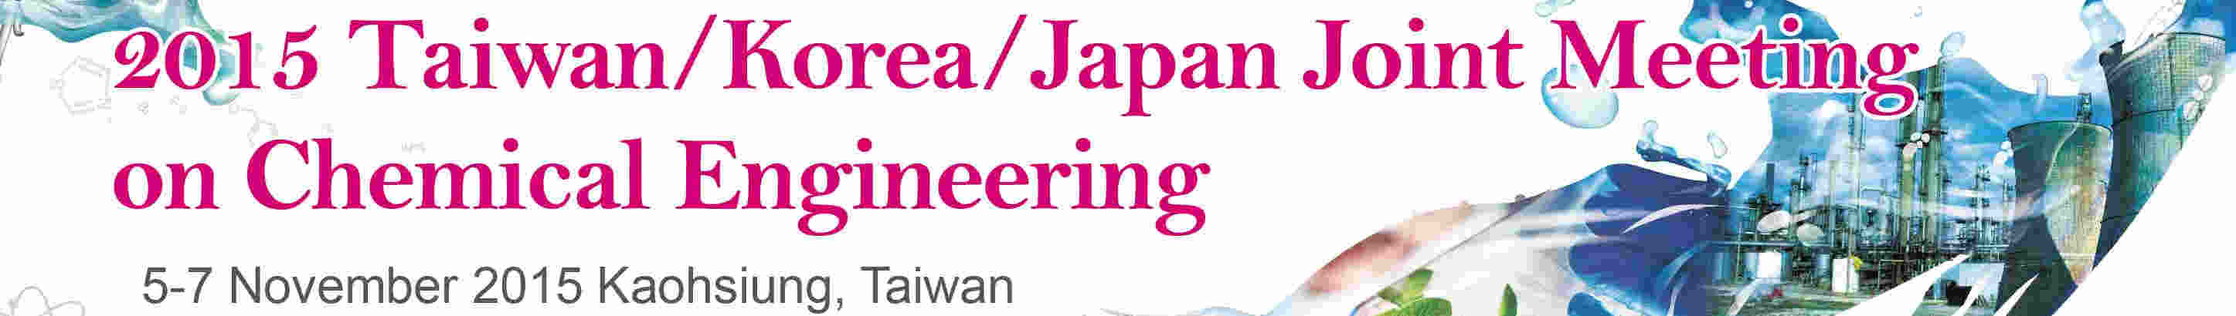
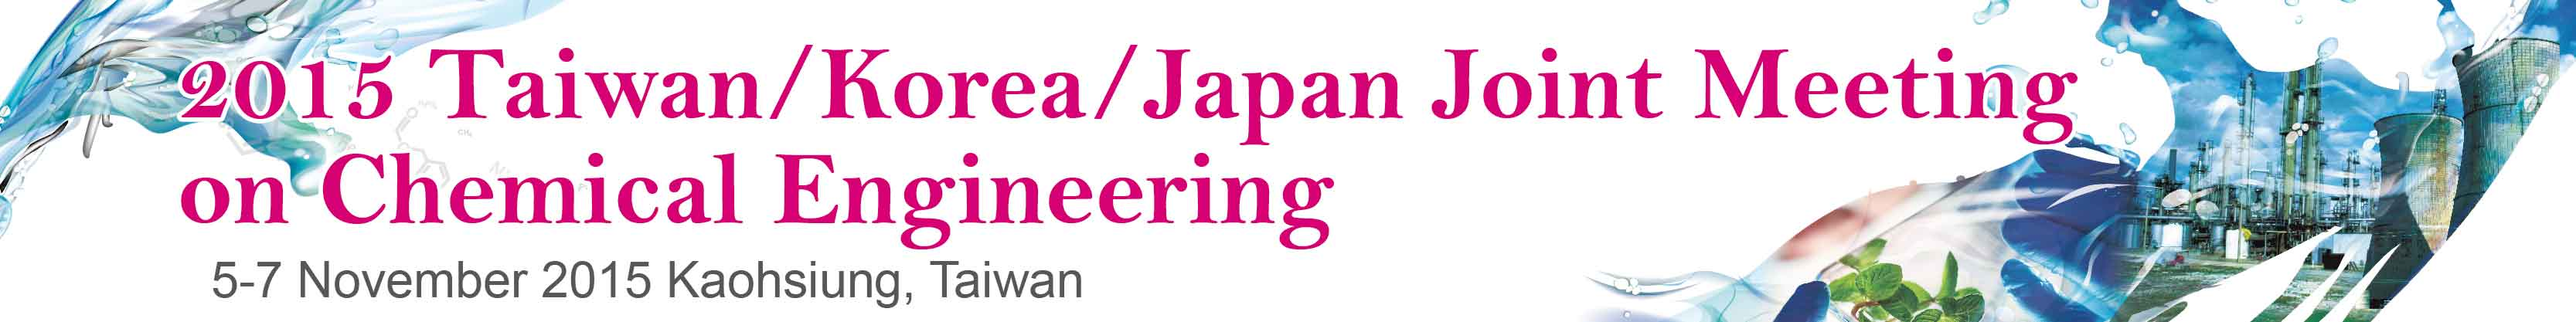
update

diff --git a/html/index.html b/html/index.html
@@ -179,7 +179,7 @@ animation: "slide"
 </div-->
     <div class="ui fixed inverted main menu blue">
         <center>
-            <img src="/banner-en.jpg" style="max-width: 100%; max-height: 220px;"/>
+            <img src="/banner-en.jpg" style="max-width: 100%; height: 220px;"/>
         </center>
         <div class="row">
             <a class="item" href="/home">
@@ -234,7 +234,7 @@ animation: "slide"
                 </a>
             </div>
         </div>
-        <div class="twelve wide column">
+        <div class="twelve wide column" style="margin-left: -20px;">
             <div class="ui segment">
             {% block content %}
             {% end %}

diff --git a/html/about.html b/html/about.html
@@ -25,7 +25,7 @@ context: $('.tab.demo')
             To be announced
         </div>
         <div data-tab="third" class="ui tab segment ">
-            <img src="/committees.jpg" style="max-width: 100%;">
+            <img src="/committees.png" style="max-width: 100%;">
         </div>
     </div>
 </div>
